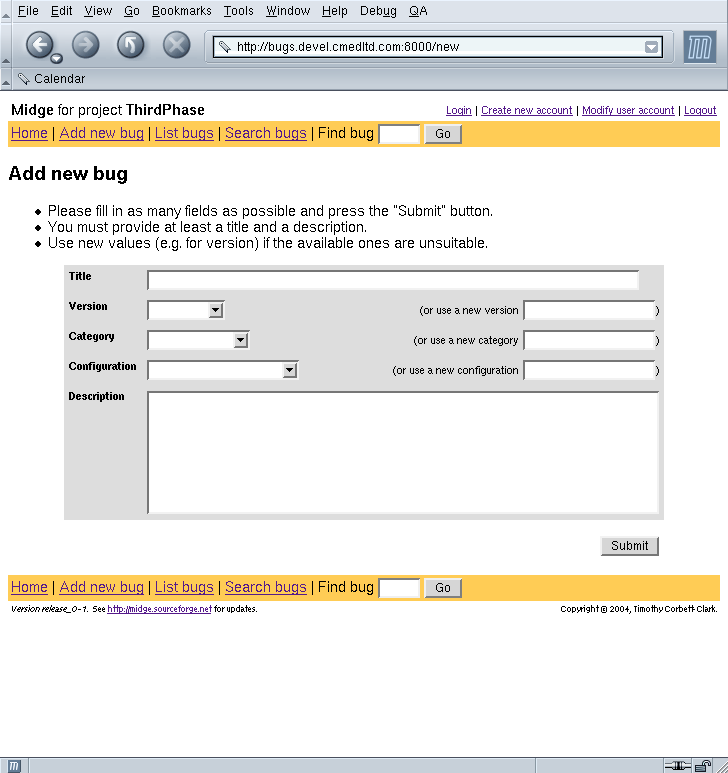
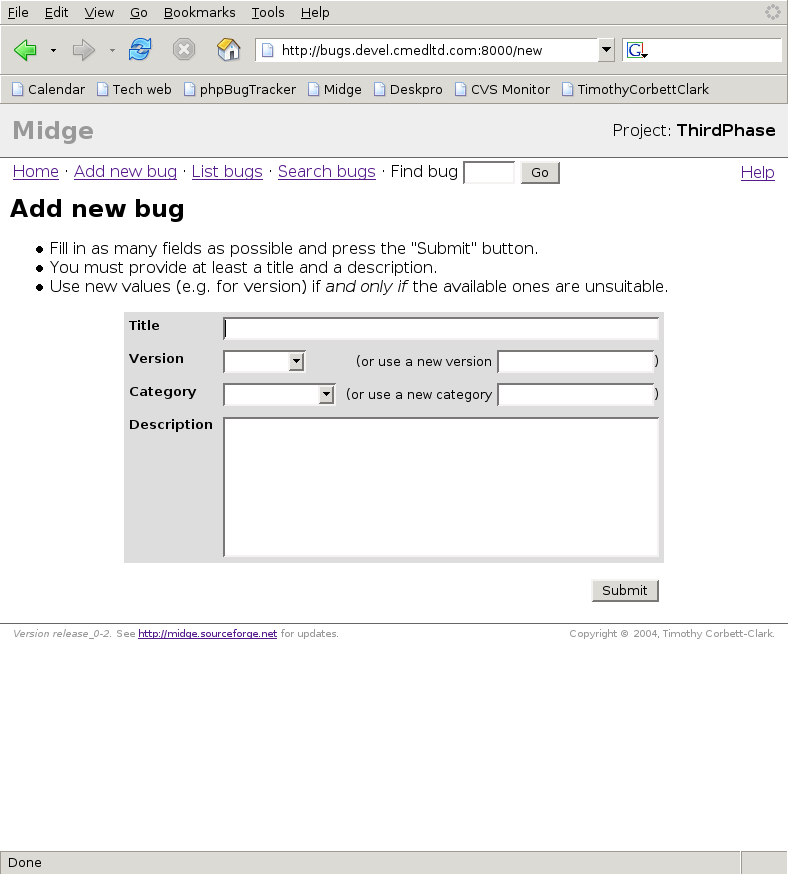
updated for release_0-2

Changed region(s): [[0.0, 0.0, 1.0, 0.8072], [0.0, 0.9625, 1.0, 1.0]]

diff --git a/news.html b/news.html
@@ -34,6 +34,12 @@
    <ul>
     <li>
      <p>
+      <strong>Midge 0.2 Released</strong> (05 September 2004)<br/>
+      Minor bug fixes and a visual revamp - see the new screen shots!
+     </p>
+    </li>
+    <li>
+     <p>
       <strong>Midge 0.1 Released</strong> (15 August 2004)<br/>
       After a few months of trying it out in-house, the first version
       of Midge is now ready for public consumption.

diff --git a/screenshots.html b/screenshots.html
@@ -36,7 +36,6 @@
     The following screen shots were taken from a real use of midge:
    </p>
    <ul>
-    <li><a href="home.png">Home page (once logged in)</a></li>
     <li><a href="add_new_bug.png">Add new bug</a></li>
     <li><a href="list_bugs.png">List bugs</a></li>
     <li><a href="search_bugs.png">Search bugs</a></li>

diff --git a/download.html b/download.html
@@ -45,7 +45,7 @@
  
    <h1>Download</h1>
    <p>
-    Version 0.1 is now available. See the 
+    Version 0.2 is now available. See the 
     <a href="http://sourceforge.net/project/showfiles.php?group_id=107307">
     download page
     </a> on source forge.
